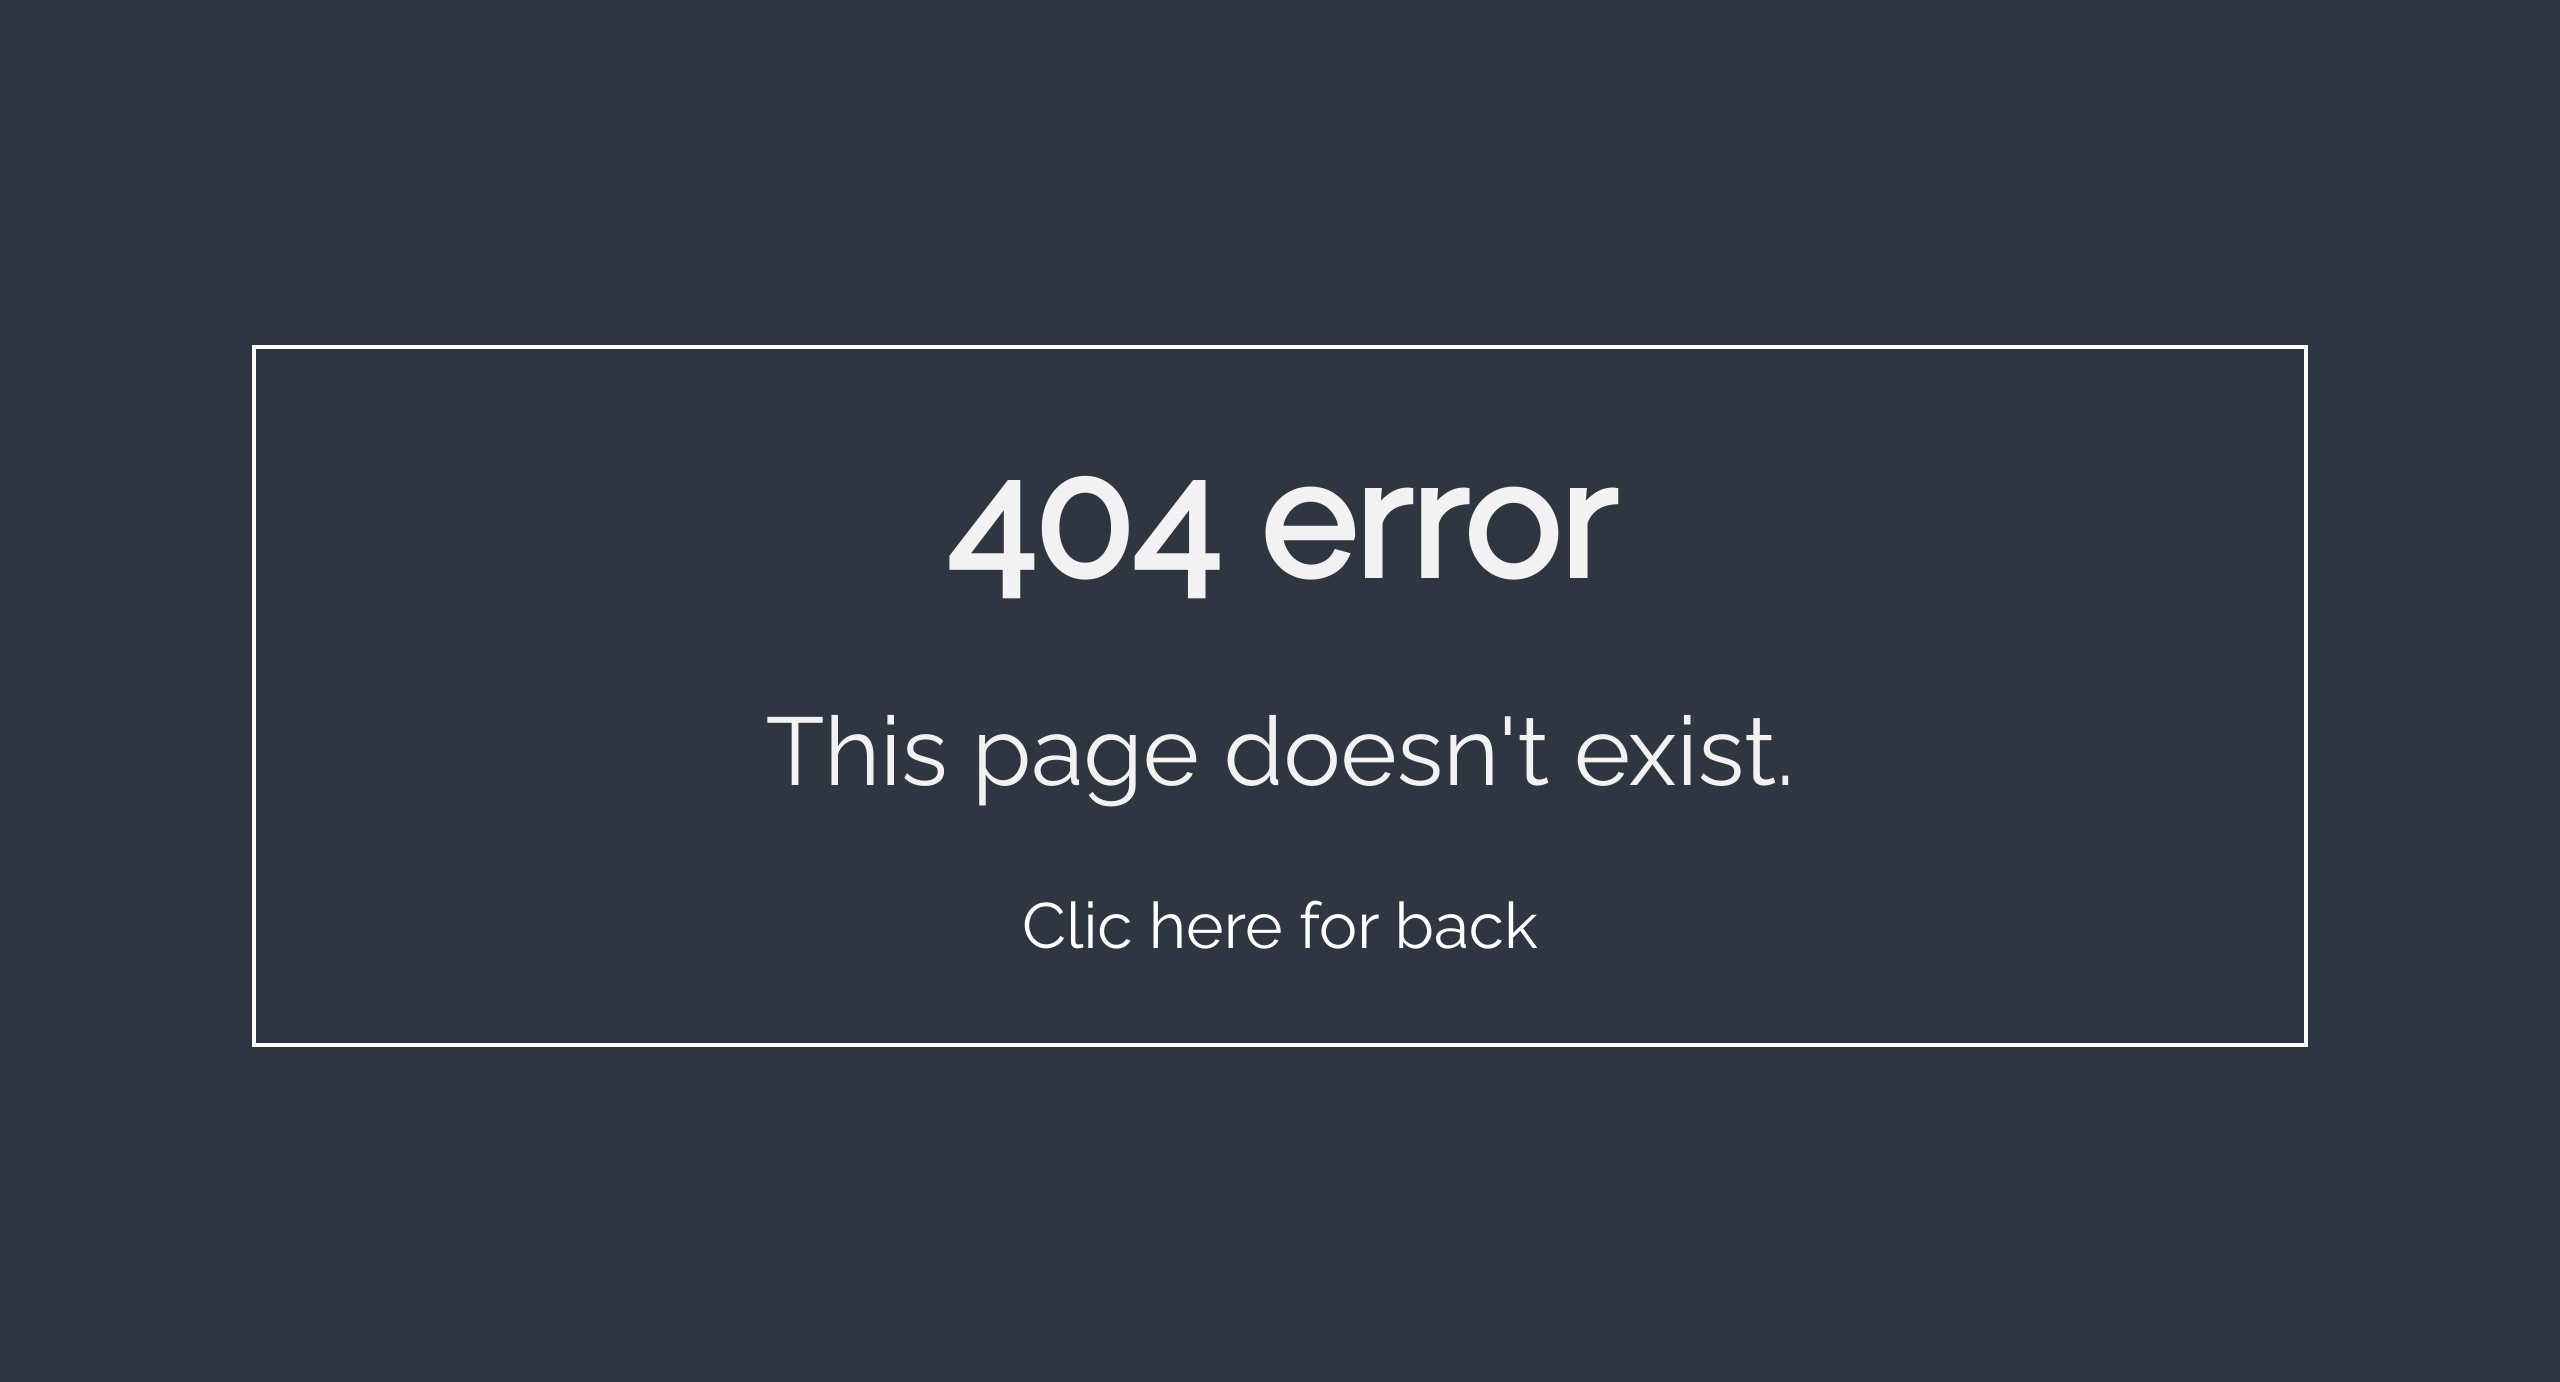
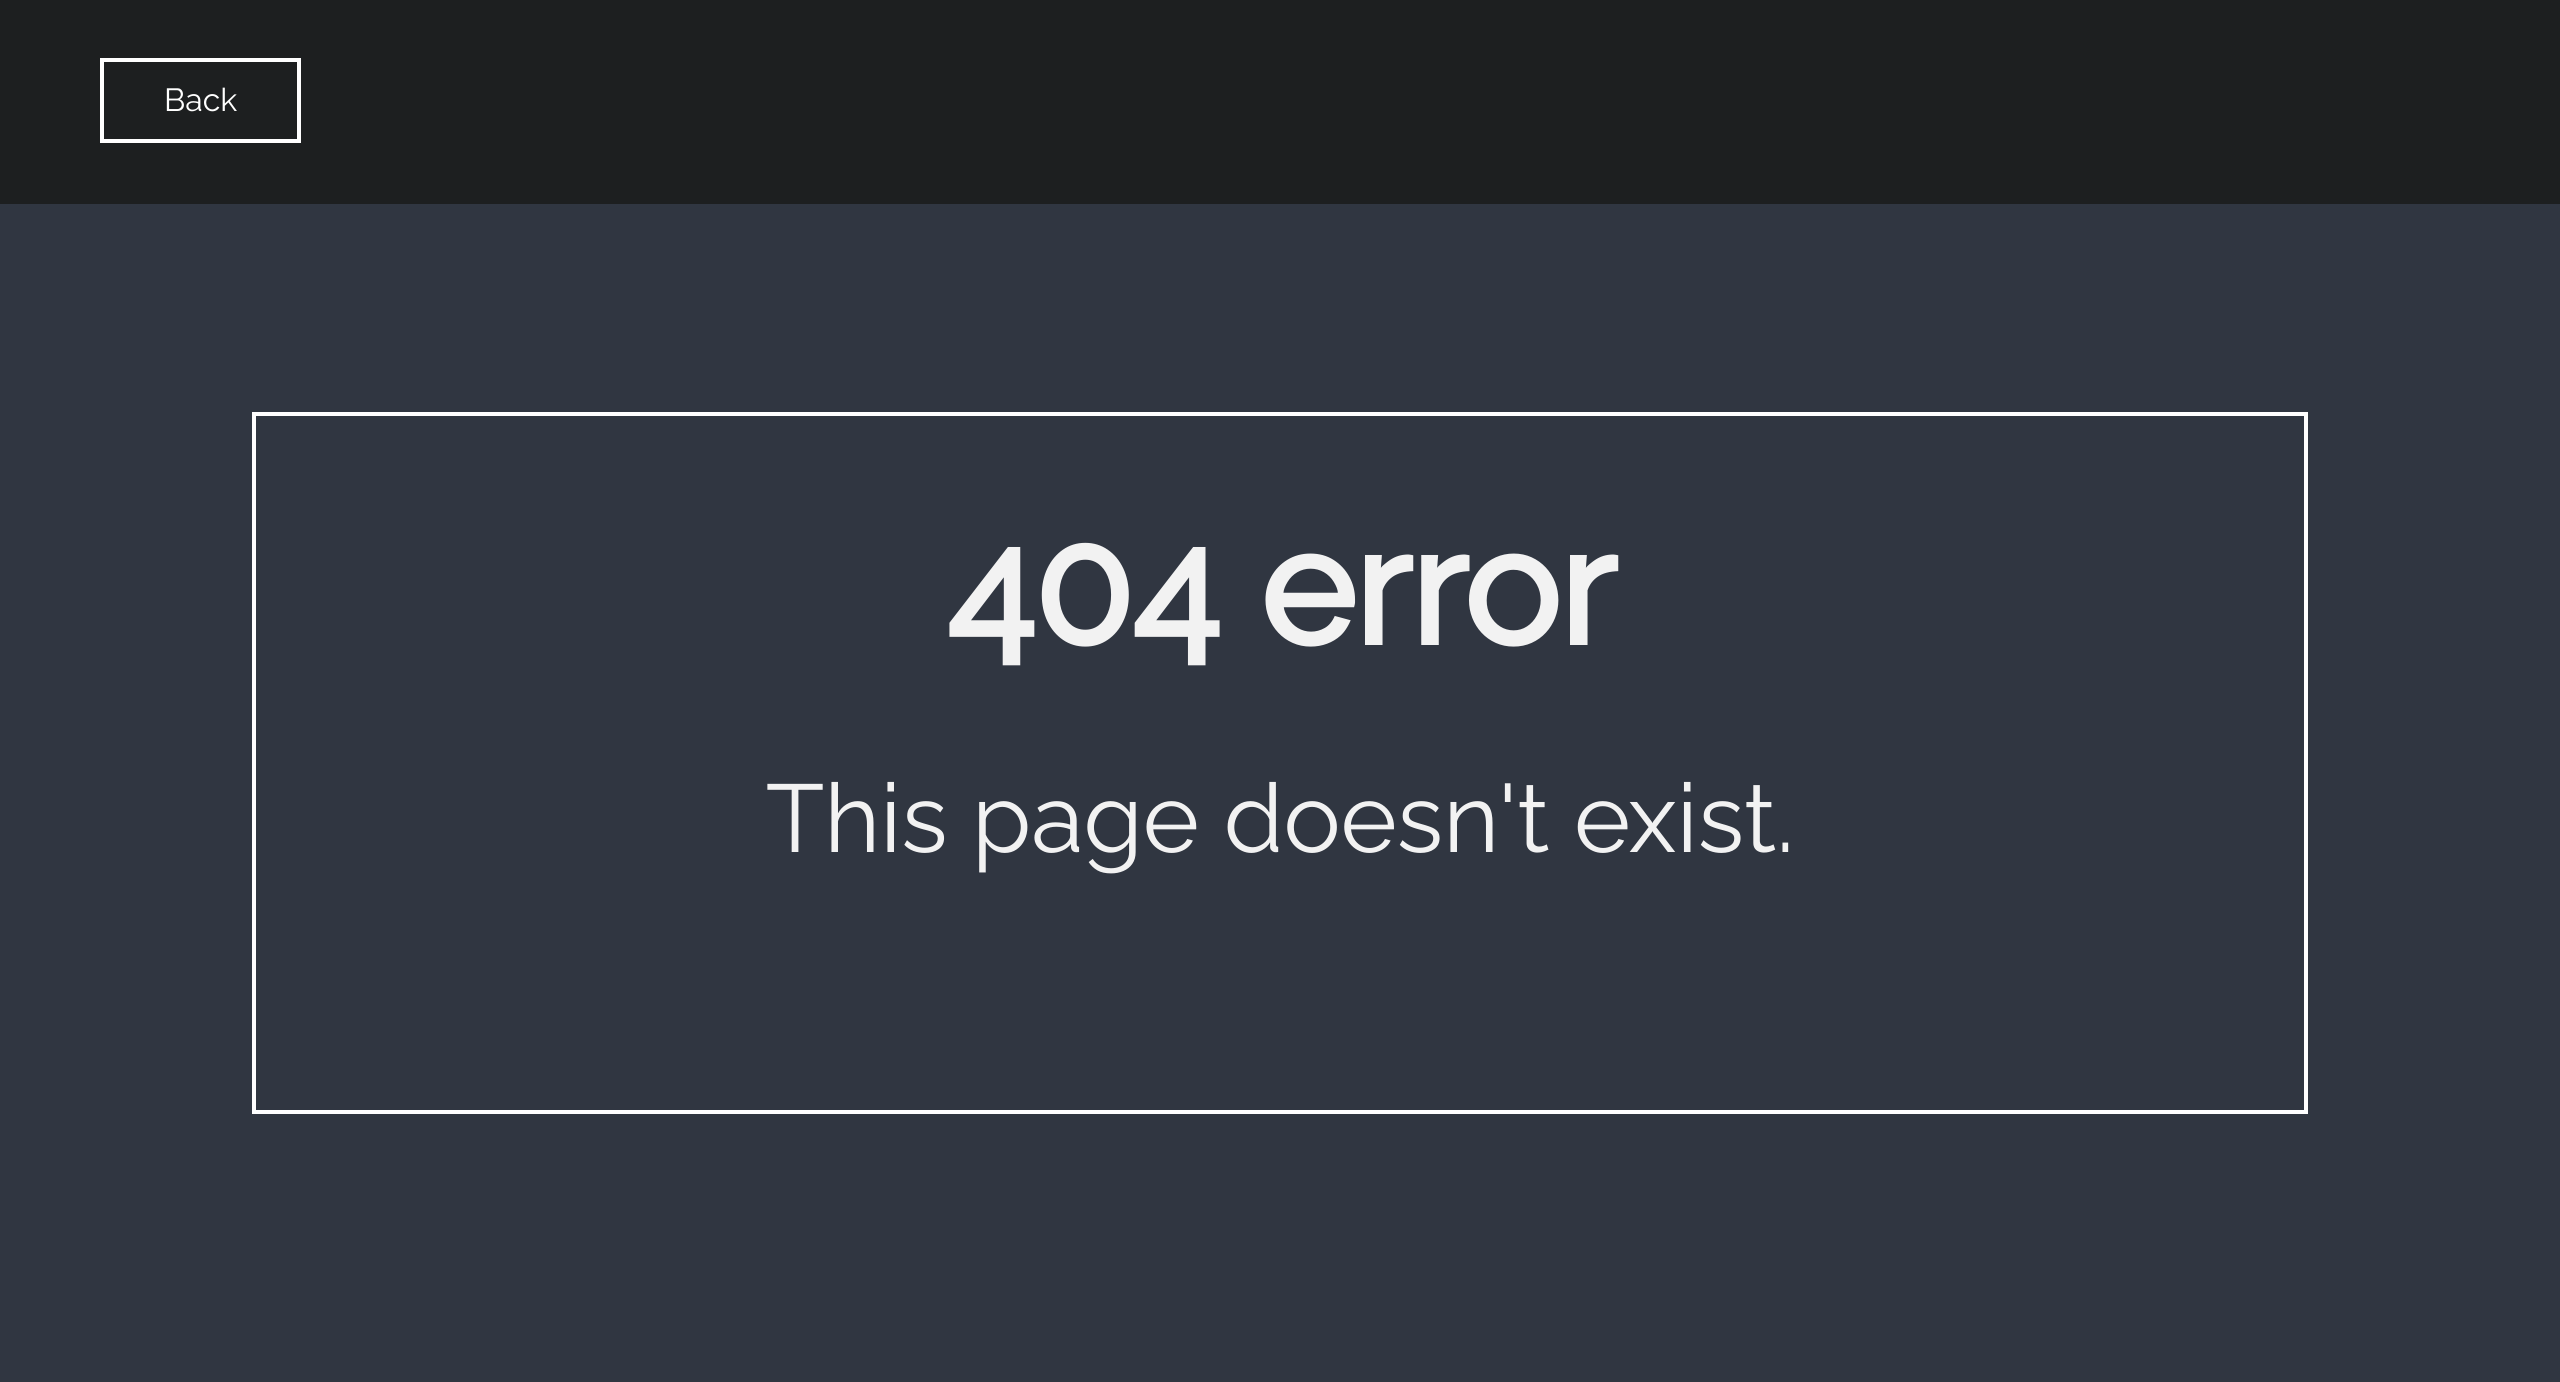
new maj

diff --git a/template/404.html b/template/404.html
@@ -24,7 +24,7 @@
 		height: 50vh;
 		margin-left: auto;
 		margin-right: auto;
-		margin-top: 25vh;
+		margin-top: 15vh;
 		border: 2px solid white;
 		text-align: center;
 	}
@@ -43,11 +43,30 @@
 		font-size: 2em;
 		color: white;
 	}
+	header{
+		height: 15vh;
+		width: 100%;
+		background-color: #1D1F20;
+		display: flex;
+		align-items: center;
+	}
+
+	header a{
+		color: white;
+		border: 2px solid white;
+		padding: 10px 30px 10px 30px;
+		text-decoration: none;
+		margin-left: 50px;
+	}
 </style>
+<header>
+	<div>
+		<a href="/login">Back</a>		
+	</div>
+</header>
 <section class="page_404">
 	<h1>404 error</h1>
 	<p>This page doesn't exist.</p>
-	<a href="/login/">Clic here for back</a>
 </section>
 </body>
 </html>

diff --git a/template/login.html b/template/login.html
@@ -7,11 +7,10 @@
     <script src="https://cdn.jsdelivr.net/npm/typed.js@2.0.12"></script>
 </head>
 <style type="text/css">
-@import url('https://fonts.googleapis.com/css?family=Raleway');
 body {
     margin: 0;
     padding: 0;
-    font-family: 'Raleway', sans-serif;
+    font-family: sans-serif;;
     color: #F2F2F2;
     background-color: #303641;
 }
@@ -178,7 +177,6 @@ input[type=submit]:hover{
 </style>
 <body>
     <h1 style="text-align: center; margin-top: 80px; margin-bottom: 50px;"><span class="element"></span></h1>
-    <p>{{ request.user.username }}</p>
     <div id="container-login">
         <div id="title">
             <i class="material-icons lock">lock</i> Login

diff --git a/template/profil.html b/template/profil.html
@@ -6,11 +6,10 @@
 	<title>profil</title>
 </head>
 <style type="text/css">
-	@import url('https://fonts.googleapis.com/css?family=Raleway');
 	body {
     	margin: 0;
     	padding: 0;
-    	font-family: 'Raleway', sans-serif;
+    	font-family: sans-serif;
     	color: #F2F2F2;
     	background-color: #303641;
     	overflow: hidden;
@@ -261,8 +260,8 @@
 <body>
 	<header>
 		<section class="head">
-			{{ fname }}
-			<h1>bienvenue {{ profil }}</h1>
+            
+			<h1>bienvenue {{ user }}!</h1>
 			<div class="profil">
 				<div id="profil" onclick="Profil1()" class="rond-profil">
 					<p class="p">profil</p>

diff --git a/template/select.html b/template/select.html
@@ -9,14 +9,14 @@
 <body>
 
 <style type="text/css">
-@import url('https://fonts.googleapis.com/css?family=Raleway');
+
 *{
     padding: 0;
     margin: 0;
 }
 
 body{
-    font-family: 'Raleway', sans-serif;
+    font-family: sans-serif;
     color: #F2F2F2;
     background-color: #303641;
 }

diff --git a/template/politique.html b/template/politique.html
@@ -11,6 +11,7 @@
 		padding: 0;
     	color: #F2F2F2;
     	background-color: #303641;
+    	font-family: sans-serif;
 	}
 
 	section{

diff --git a/django_profil_app/views.py b/django_profil_app/views.py
@@ -4,7 +4,6 @@ from django.contrib.auth import login, logout
 from django.contrib.auth import authenticate
 import os
 import socket
-socket.gethostbyname(socket.gethostname())
 
 def login(request):
     hname = os.uname()
@@ -13,10 +12,10 @@ def login(request):
         if form.is_valid():
             username = request.POST.get('username', '')
             user = form.get_user()
-
+            request.session[0] = username
             if username == 'admin':
                 print(socket.gethostbyname(socket.gethostname()) + " Connexion de l'admin ! avec : " + str(hname))
-                return redirect('../profil?user=' + username)
+                return redirect('../profil?user=' + username, user=username)
             elif username != 'admin':
                 print("Connexion de " + username + " avec : " + str(hname))
                 return redirect('../profil/select?user=' + username)

diff --git a/django_profil_app/settings.py b/django_profil_app/settings.py
@@ -23,7 +23,7 @@ BASE_DIR = os.path.dirname(os.path.dirname(os.path.abspath(__file__)))
 SECRET_KEY = 'j)^2y$=%u&&8bef$_mz79x%g+198l4t&duk$#@j!u9f#l^hop*'
 
 # SECURITY WARNING: don't run with debug turned on in production!
-DEBUG = True
+DEBUG = False
 
 ALLOWED_HOSTS = ['*']
 
